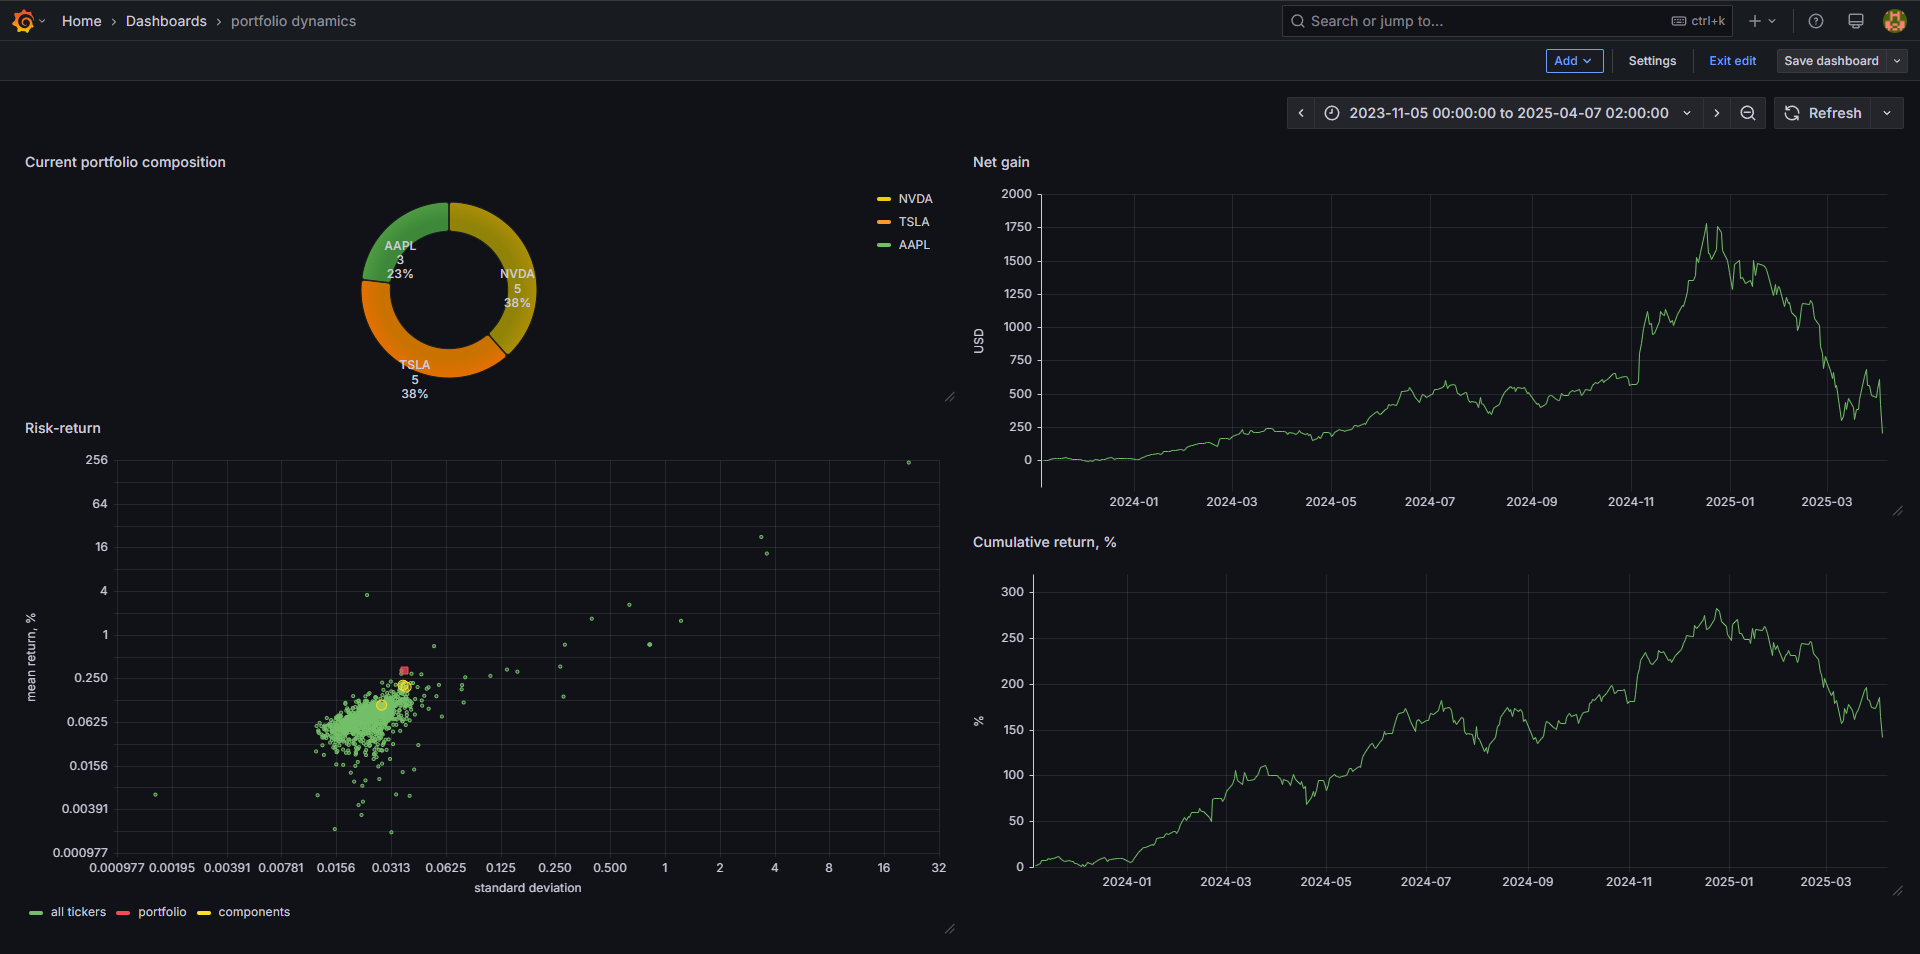
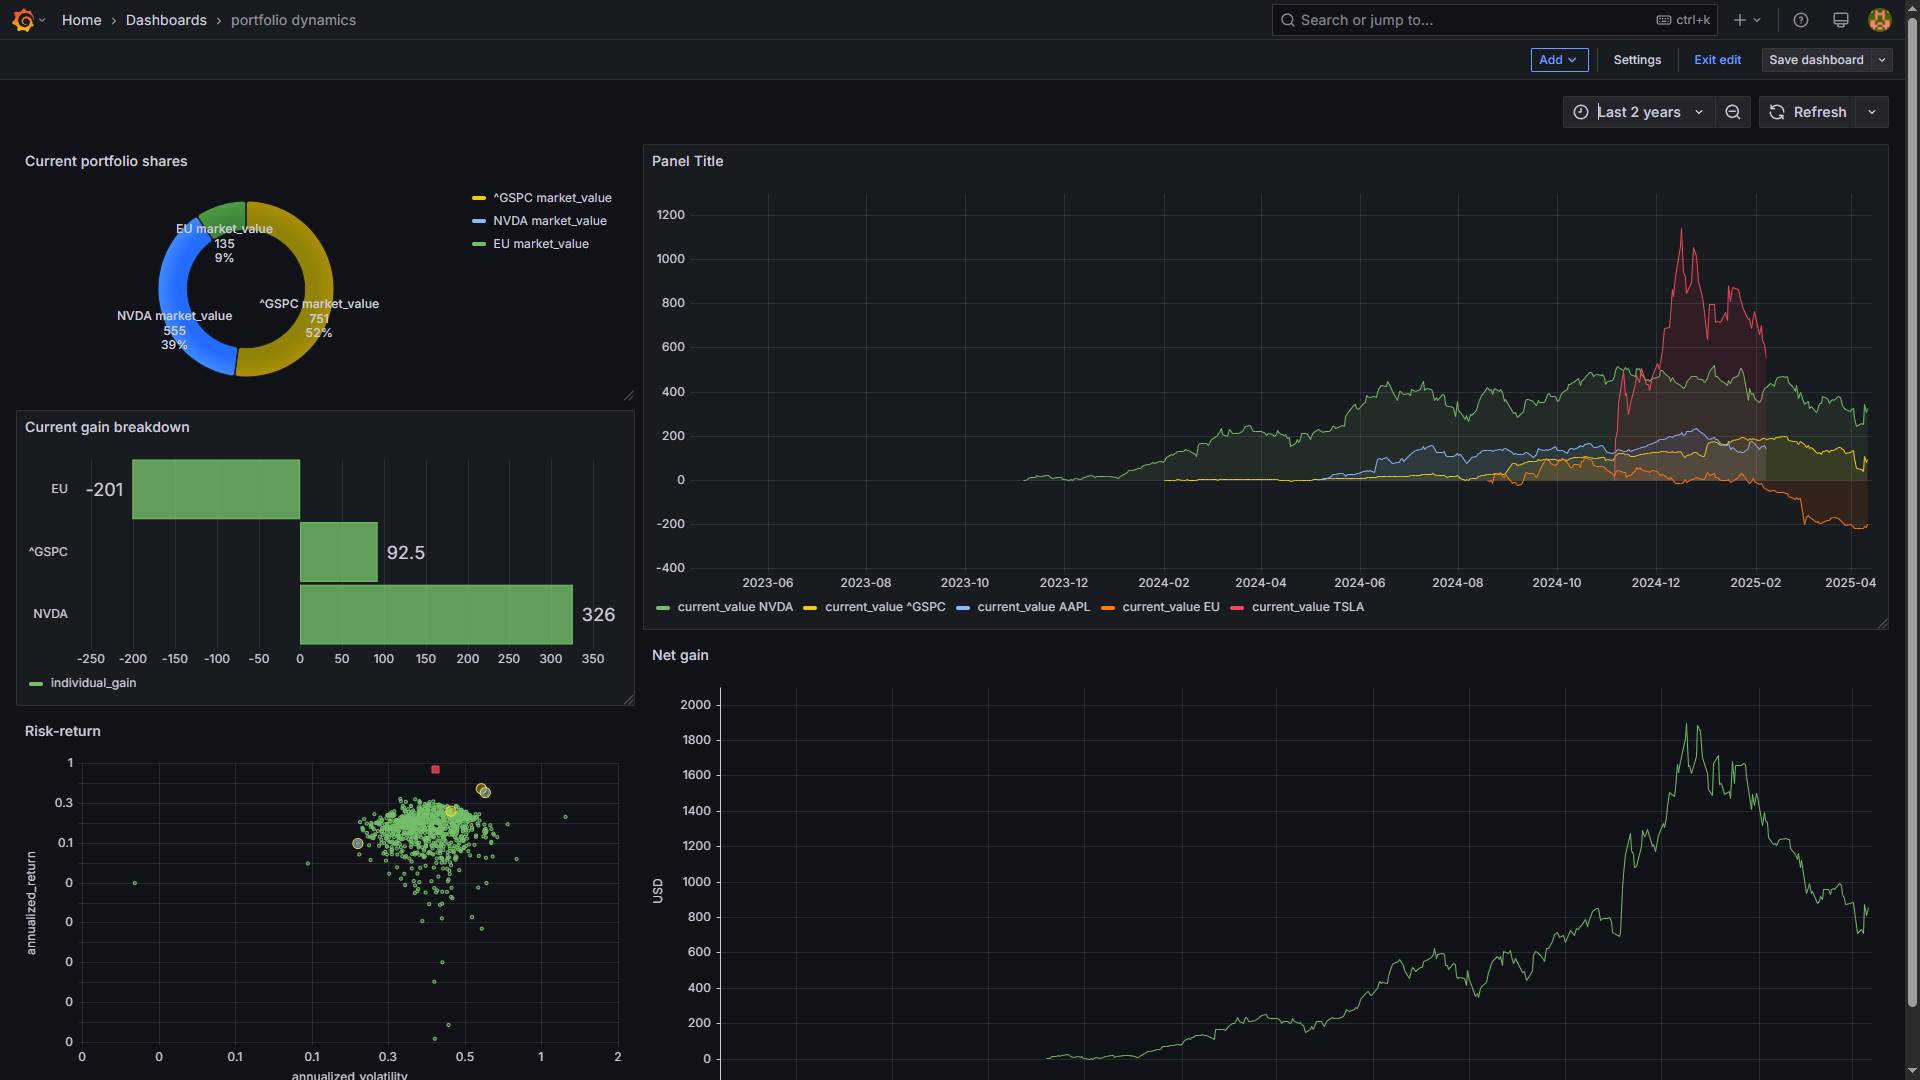
removed unused and commented code. updated Grafana screenshot.

diff --git a/src/kestra/scripts/scripts/get_all_tickers.py b/src/kestra/scripts/scripts/get_all_tickers.py
@@ -24,49 +24,13 @@ potential_name_columns = [
     'company name',
     'name',
 ]
-# potential_sector_columns = [
-#     'gics sector',
-#     'segment',
-#     'industry',
-#     'prime standard sector',
-#     'sector',
-#     'sector[15]',
-#     'ftse industry classification benchmark sector[10]'
-# ]
 
-
-# all_tickers = pd.DataFrame()
-
-# for k, v in companies_list_pages.items():
 print(f"Starting region: {companies_list_pages['region']}...")
 if companies_list_pages['region'] == 'Latin_Amerika':
     html = requests.get(companies_list_pages['link'])
     soup = bs.BeautifulSoup(html.text, 'lxml')
     table = soup.find('table', {'class': 'wikitable sortable'})
     df = pd.read_html(io.StringIO(str(table)))[0]
-# elif k == 'Europe':
-#     n = 1
-#     df = pd.DataFrame()
-#     html = requests.get(v+str(n))
-#     soup = bs.BeautifulSoup(html.text, 'lxml')
-#     table = soup.find('table', {'aria-label': 'Constituents of STOXX600'})
-#     temp_df = pd.read_html(io.StringIO(str(table)))[0]
-#     while not temp_df.empty:
-#         n += 1
-#         try:
-#             html = requests.get(v+str(n))
-#             soup = bs.BeautifulSoup(html.text, 'lxml')
-#             table = soup.find(
-#                 'table',
-#                 {'aria-label': 'Constituents of STOXX600'}
-#             )
-#             temp_df = pd.read_html(io.StringIO(str(table)))[0]
-#             if temp_df.isnull().all().all():
-#                 break
-#             else:
-#                 df = pd.concat([df, temp_df], axis=0, ignore_index=True)
-#         except:
-#             raise
 else:
     html = requests.get(companies_list_pages['link'])
     soup = bs.BeautifulSoup(html.text, 'lxml')
@@ -75,7 +39,6 @@ else:
 
 cols = [c for c in df.columns if c in potential_ticker_columns]
 name_cols = [c for c in df.columns if c.lower() in potential_name_columns]
-# sector_cols = [c for c in df.columns if c.lower() in potential_sector_columns]
 
 output = df[cols].map(lambda x: x.split(":")).copy()
 tickers = df[cols].map(
@@ -97,24 +60,6 @@ output['company'] = search.longname
 output['sector'] = search.sector
 output['industry'] = search.industry
 
-# all_tickers = pd.concat(
-#     [
-#         all_tickers,
-#         output.loc[
-#             output['ticker'].notnull(),
-#             [
-#                 'ticker',
-#                 'company',
-#                 'region',
-#                 'sector',
-#                 'industry',
-#                 'exchange',
-#             ]
-#         ].set_index('ticker')
-#     ],
-#     axis=0,
-#     # ignore_index=True
-# )
 all_tickers = output.loc[
     output['ticker'].notnull(),
     [
@@ -132,9 +77,5 @@ print(f"Sleep {sleep} seconds")
 time.sleep(sleep)
 
 all_tickers = all_tickers[all_tickers.index.notnull()]
-# # BOKA (Royal Boskalis Westminster N.V.) is not found in Yfinance
-# # but is listed on Euronext Amsterdam
-# if 'BOKA' in all_tickers.index.tolist():
-#     all_tickers.drop('BOKA', inplace=True)
 Kestra.outputs({'all_tickers': sorted(all_tickers.index.tolist())})
 all_tickers.to_csv("all_tickers.csv", index=True)

diff --git a/src/kestra/scripts/scripts/modules.py b/src/kestra/scripts/scripts/modules.py
@@ -98,8 +98,6 @@ def pull_history(tickers: list, start: str=None, end: str=None) -> pd.DataFrame:
 def prepare_dataframe(data: pd.DataFrame) -> pd.DataFrame:
     """Minor adjustments to the data frame."""
 
-    # assert not data.empty, print("Empty data frame!")
-
     dat = data.reset_index()
     out = pd.DataFrame(
         index=dat.index,

diff --git a/src/kestra/scripts/scripts/price_history.py b/src/kestra/scripts/scripts/price_history.py
@@ -20,5 +20,3 @@ if __name__ == "__main__":
     data = pull_history(tickers, start, end)
     df_final = prepare_dataframe(data)
     df_final.to_csv("price_history.csv", index=False)
-
-    # Kestra.outputs({'ticker': ticker})
